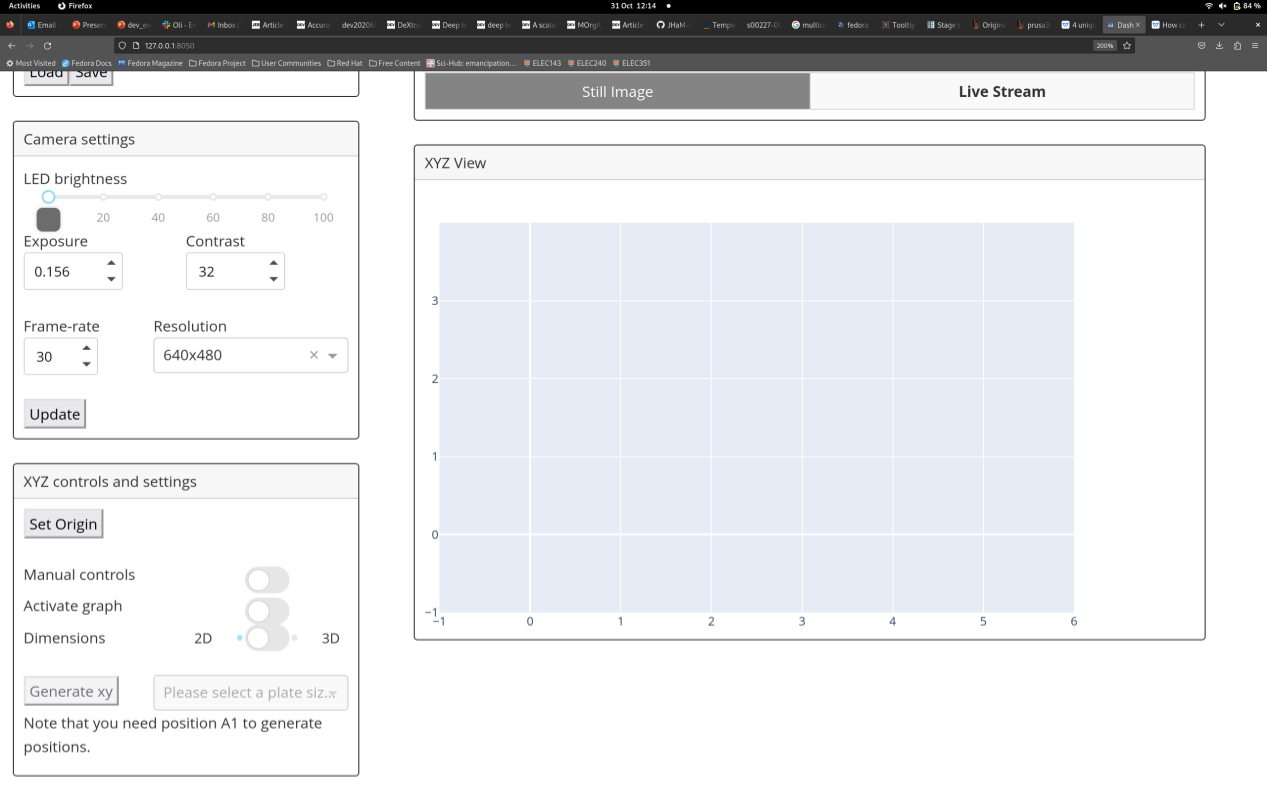
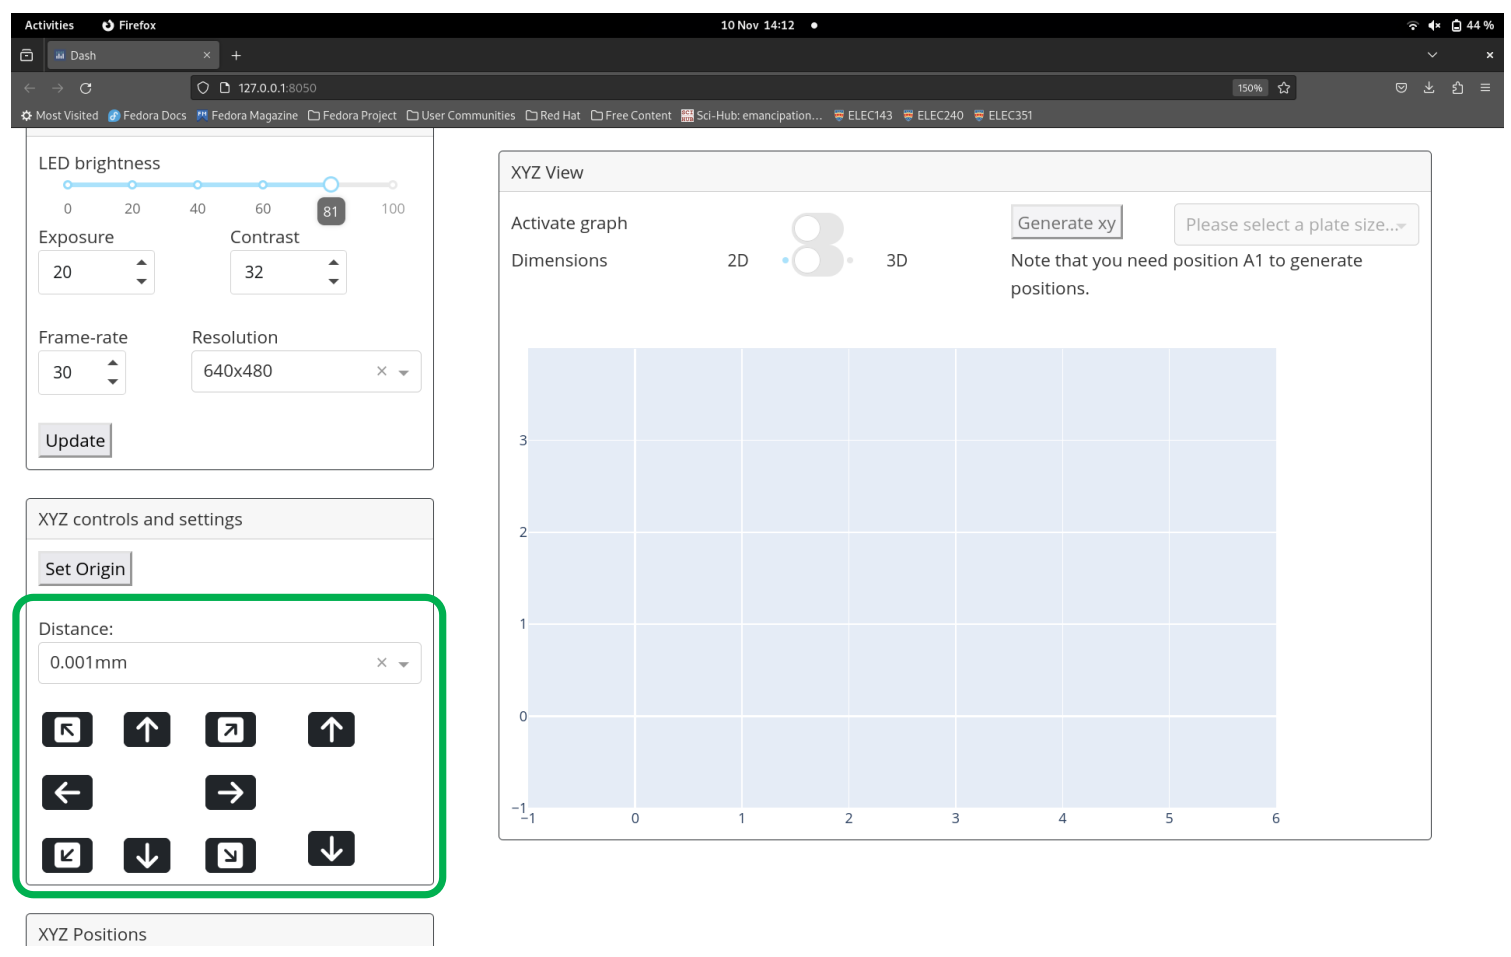
Update software guide with new images.

Changed region(s): [[0.0, 0.0, 1.0, 0.9975], [0.2455, 0.4232, 0.2762, 0.4534]]

diff --git a/documentation/user_guide/user-guide.md b/documentation/user_guide/user-guide.md
@@ -10,12 +10,12 @@
 -----------------
 ### INDEX
 -----------------
-* **1.0 Hardware setup**
-* **2.0 Starting the webserver**
-* **3.0 Homing the motorised XYZ stage**
-* **4.0 Setting up camera and starting live stream**
-* **5.0 Using manual controls to find and save desired positions**
-* **6.0 Set acquisition parameters and start acquisition**
+* **1. Hardware setup**
+* **2. Starting the webserver**
+* **3. Homing the motorised XYZ stage**
+* **4. Setting up camera and starting live stream**
+* **5. Using manual controls to find and save desired positions**
+* **6. Set acquisition parameters and start acquisition**
 -----------------
 
 
@@ -27,7 +27,7 @@
 
 
 -----------------
-### 1.0 HARDWARE SETUP
+### 1. HARDWARE SETUP
 -----------------
 The LEC is a versatile multidimensional imaging platform. A broad range of magnifications are possible, using different optical hardware, particularly lenses. 
 
@@ -45,14 +45,14 @@ The LEC was initially developed for dark field imaging of developing aquatic emb
 
 
 -----------------
-### 2.0 STARTING THE WEBSERVER
+### 2. STARTING THE WEBSERVER
 -----------------
 
 Once you have powered on your system, you can start the LabEmbryoCam (LEC) webserver by double clicking the icon on the desktop or in the Activities panel:
 
 IMAGE REQ.
 
-A terminal window will automatically open followed by the FireFox browser with the webserver loaded. We can now proceed with getting the hardware set up for running an experiment.
+A terminal window will automatically open followed by the browser with the webserver loaded. We can now proceed with getting the hardware set up for running an experiment.
 
 
 
@@ -64,9 +64,9 @@ A terminal window will automatically open followed by the FireFox browser with t
 
 
 -----------------
-### 3.0 HOMING THE MOTORISED XYZ STAGE
+### 3. HOMING THE MOTORISED XYZ STAGE
 -----------------
-The first step required in setting up any experiment with the LEC is to home the XYZ stage. This is essential to ensure that the correct origin is used when finding and creating positions. To do this, click the Set Origin button in the user interface - you may have to scroll down the page to find it:
+The first step required in setting up any experiment with the LEC is to home the XYZ stage. This is essential to ensure that the correct origin is used when finding and creating positions. To do this, click the `Set Origin` button in the user interface - you may have to scroll down the page to find it:
 
 ***Before homing the stage, make sure there are no objects that could obstruct the movement of the stage. Also, make sure not to use the app whilst the stage is homing as this could interfere with the process.***
 
@@ -82,9 +82,9 @@ The first step required in setting up any experiment with the LEC is to home the
 
 
 -----------------
-### 4.0 STARTING THE WEBSERVER
+### 4. STARTING THE WEBSERVER
 -----------------
-On startup of the LEC webserver the camera is already initiated, however the default settings typically need to be adjusted to record good quality video. Adjusting the camera settings can simply be achieved using the Camera Settings section of the user interface: 
+On startup of the LEC webserver the camera is already initiated, however the default settings typically need to be adjusted to record good quality video. Adjusting the camera settings can simply be achieved using the `Camera Settings` section of the user interface: 
 
 <img src="assets/camera-setup.png"  width="80%">
 
@@ -94,15 +94,15 @@ The following are descriptions for each camera setting:
 * **Frame-rate**: The frame-rate at which videos are captured. Note that for high resolutions, such as 2048x2048, you will need to reduce exposure time below 10ms if you would like to achieve a frame-rate higher than 15-20fps. This is due to a hard limit set by the camera driver on raspberry pi.
 * **Resolution**: Presets for resolution at which images will be captured.
 
-***For changes to the camera settings to take effect you must press the Update button at the bottom of the Camera Settings section.***
+***For changes to the camera settings to take effect you must press the `Update` button at the bottom of the Camera Settings section.***
 
-On the right you will see section termed Camera View, here you can capture still images using the Snap button and start a live video stream using the Start/Stop Stream button:
+On the right you will see section termed `Camera View`, here you can capture still images using the `Snap` button and start a live video stream using the `Start/Stop Stream` button:
 
 <img src="assets/camera-startup.png"  width="80%">
 
-Still image are interactive, so you can zoom in and out, and move the image to find an improved view. Before starting the next step, you may wish to start the live video stream for easily finding the animals or subjects you wish to record using the LEC.
+Still images are interactive, so you can zoom in and out, and move the image to find an improved view. Before starting the next step, you may wish to start the live video stream for easily finding the animals or subjects you wish to record using the LEC.
 
-***If you would like to change the camera settings you must exit the live stream before doing this so that your changes can take effect. Then when you have finished choosing your desired setttings, press the Update Settings button before starting the live stream again.***
+***If you would like to change the camera settings you must exit the live stream before doing this so that your changes can take effect. Then when you have finished choosing your desired setttings, press the `Update` button before starting the live stream again.***
 
 
 
@@ -111,13 +111,16 @@ Still image are interactive, so you can zoom in and out, and move the image to f
 
 
 -----------------
-### 5.0 USING MANUAL CONTROLS TO FIND AND SAVE POSITIONS
+### 5. USING MANUAL CONTROLS TO FIND AND SAVE POSITIONS
 -----------------
-The manual controls consist of the joystick (for controlling the X and Y movement of the stage) and also a pair of Z-axis buttons (for raising or lowering the Z axis). To enable the joystick and Z buttons, toggle the following switch in the user interface:
+
+The manual controls are entirely virtual and can be used as soon as the stage finishes homing. These can be found in the following section of the user interface:
 
 <img src="assets/manua-controls.png"  width="80%">
 
-In conjunction with the camera live video stream, move the joystick and Z buttons to move the camera to a desired position. Once you have a position that you want, click the Current button in the xyz tab to record the current position:
+The dropdown above the controls determines the distance the stage moves (*mm*) every time you press one of the arrows. 
+
+In conjunction with the camera live video stream, move the stage using the manual controls to move the camera to a desired position. Once you have a position that you want, click the `Current` button in the xyz section to record the current position:
 
 <img src="assets/save-position.png"  width="80%">
 
@@ -147,7 +150,7 @@ The XYZ section provides functionality for creating lists of X, Y and Z position
 
 
 -----------------
-### 6.0 SETTING AND STARTING ACQUISITIONS
+### 6. SETTING AND STARTING ACQUISITIONS
 -----------------
 
 The acquisition parameters can be found at the bottom of the page of the user interface in the Acquisition section:
@@ -161,7 +164,7 @@ Here are descriptions for each acquisition parameter:
 **Acquisition length** - How long to capture video for each position, at each timepoint.
 **Driver and Folder selection** - The full file path to the directory where you would like to save video. This can be selected using the Select button.
 
-Once you have added in the your desired acquisition parameters, you can now start an acquisition using the Start acquisition button!
+Once you have added in your desired acquisition parameters, you can now start an acquisition using the Start acquisition button!
 
 
 
